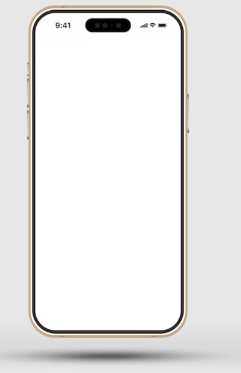
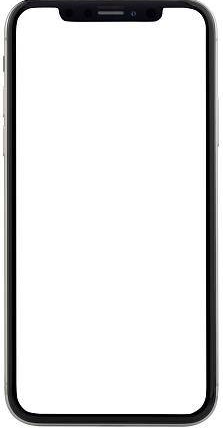
feat: cabeçalho e rodapé pretos + nova foto iPhone + botões contrastados
- Navbar: fundo preto #080810, links brancos, botão WA verde destacado
- Footer: fundo preto #080810, botões com borda branca, WA em destaque
- CartButton: prop dark para adaptar cores no fundo escuro
- Nova foto do iPhone atualizada
- Menu mobile também preto

diff --git a/components/CartButton.tsx b/components/CartButton.tsx
@@ -1,20 +1,31 @@
 "use client";
 import { useCart } from "@/context/CartContext";
 
-export default function CartButton({ style }: { style?: React.CSSProperties }) {
+interface Props {
+  style?: React.CSSProperties;
+  dark?: boolean;
+}
+
+export default function CartButton({ style, dark }: Props) {
   const { count, setOpen } = useCart();
+
+  const bg     = dark ? "rgba(255,255,255,.08)"  : "rgba(26,110,255,.07)";
+  const border = dark ? "rgba(255,255,255,.18)"  : "rgba(26,110,255,.18)";
+  const bgHov  = dark ? "rgba(255,255,255,.15)"  : "rgba(26,110,255,.12)";
+  const bdHov  = dark ? "rgba(255,255,255,.35)"  : "rgba(26,110,255,.35)";
+
   return (
     <button
       onClick={() => setOpen(true)}
       aria-label="Abrir carrinho"
       style={{
         position: "relative",
-        background: "rgba(26,110,255,.08)",
-        border: "1px solid rgba(26,110,255,.2)",
+        background: bg,
+        border: `1px solid ${border}`,
         borderRadius: 10,
         padding: "9px 14px",
         cursor: "pointer",
-        color: "#fff",
+        color: dark ? "#fff" : "var(--text)",
         fontSize: 18,
         display: "flex",
         alignItems: "center",
@@ -23,30 +34,23 @@ export default function CartButton({ style }: { style?: React.CSSProperties }) {
         ...style,
       }}
       onMouseEnter={e => {
-        e.currentTarget.style.background = "rgba(26,110,255,.12)";
-        e.currentTarget.style.borderColor = "rgba(26,110,255,.35)";
+        e.currentTarget.style.background = bgHov;
+        e.currentTarget.style.borderColor = bdHov;
       }}
       onMouseLeave={e => {
-        e.currentTarget.style.background = "rgba(26,110,255,.07)";
-        e.currentTarget.style.borderColor = "rgba(26,110,255,.18)";
+        e.currentTarget.style.background = bg;
+        e.currentTarget.style.borderColor = border;
       }}
     >
       🛒
       {count > 0 && (
         <span style={{
-          position: "absolute",
-          top: -6, right: -6,
-          background: "var(--blue)",
-          color: "#fff",
-          fontSize: 10,
-          fontWeight: 800,
-          width: 18, height: 18,
-          borderRadius: "50%",
-          display: "flex",
-          alignItems: "center",
-          justifyContent: "center",
-          lineHeight: 1,
-          boxShadow: "0 0 10px rgba(26,110,255,.5)",
+          position: "absolute", top: -6, right: -6,
+          background: "var(--blue)", color: "#fff",
+          fontSize: 10, fontWeight: 800,
+          width: 18, height: 18, borderRadius: "50%",
+          display: "flex", alignItems: "center", justifyContent: "center",
+          lineHeight: 1, boxShadow: "0 0 10px rgba(26,110,255,.5)",
         }}>
           {count > 9 ? "9+" : count}
         </span>

diff --git a/components/Footer.tsx b/components/Footer.tsx
@@ -5,35 +5,35 @@ const IG_LINK = "https://instagram.com/ramon_acessorios";
 
 export default function Footer() {
   return (
-    <footer style={{ borderTop: "1px solid rgba(0,0,0,.07)", padding: "40px 24px", position: "relative", zIndex: 1, background: "var(--bg2)" }}>
+    <footer style={{ background: "#080810", borderTop: "1px solid rgba(255,255,255,.07)", padding: "48px 24px 36px", position: "relative", zIndex: 1 }}>
       <div className="footer-flex">
         <div>
-          <img src="/logo.png" alt="Ramon Acessórios" style={{ height: 48, width: "auto", objectFit: "contain", marginBottom: 10 }} />
-          <p style={{ fontSize: 12, color: "var(--t3)", maxWidth: 280, lineHeight: 1.6 }}>
+          <img src="/logo.png" alt="Ramon Acessórios" style={{ height: 48, width: "auto", objectFit: "contain", marginBottom: 12 }} />
+          <p style={{ fontSize: 12, color: "rgba(255,255,255,.4)", maxWidth: 280, lineHeight: 1.7 }}>
             Tecnologia, acessórios e bikes elétricas para o seu dia a dia.
           </p>
         </div>
-        <div style={{ display: "flex", gap: 28, flexWrap: "wrap", alignItems: "center" }}>
+
+        <div style={{ display: "flex", gap: 12, flexWrap: "wrap", alignItems: "center" }}>
           <a href={WA_LINK} target="_blank" rel="noopener noreferrer"
-            style={{ fontSize: 13, color: "var(--t2)", textDecoration: "none", fontWeight: 600, transition: "color .15s" }}
-            onMouseEnter={e => (e.currentTarget.style.color = "#25D366")}
-            onMouseLeave={e => (e.currentTarget.style.color = "var(--t2)")}>
+            className="btn-wa" style={{ fontSize: 13, padding: "11px 20px" }}>
             💬 WhatsApp
           </a>
           <a href={IG_LINK} target="_blank" rel="noopener noreferrer"
-            style={{ fontSize: 13, color: "var(--t2)", textDecoration: "none", fontWeight: 600, transition: "color .15s" }}
-            onMouseEnter={e => (e.currentTarget.style.color = "var(--blue-lt)")}
-            onMouseLeave={e => (e.currentTarget.style.color = "var(--t2)")}>
+            style={{ fontSize: 13, color: "rgba(255,255,255,.55)", textDecoration: "none", fontWeight: 600, padding: "11px 18px", border: "1px solid rgba(255,255,255,.15)", borderRadius: 10, transition: "all .2s", display: "inline-flex", alignItems: "center", gap: 6 }}
+            onMouseEnter={e => { e.currentTarget.style.color = "#fff"; e.currentTarget.style.borderColor = "rgba(255,255,255,.4)"; }}
+            onMouseLeave={e => { e.currentTarget.style.color = "rgba(255,255,255,.55)"; e.currentTarget.style.borderColor = "rgba(255,255,255,.15)"; }}>
             📸 Instagram
           </a>
-          <a href="/checkout"
-            style={{ fontSize: 13, color: "var(--t2)", textDecoration: "none", fontWeight: 600, transition: "color .15s" }}
-            onMouseEnter={e => (e.currentTarget.style.color = "var(--blue-lt)")}
-            onMouseLeave={e => (e.currentTarget.style.color = "var(--t2)")}>
-            🛒 Checkout
+          <a href="/produtos"
+            style={{ fontSize: 13, color: "rgba(255,255,255,.55)", textDecoration: "none", fontWeight: 600, padding: "11px 18px", border: "1px solid rgba(255,255,255,.15)", borderRadius: 10, transition: "all .2s", display: "inline-flex", alignItems: "center", gap: 6 }}
+            onMouseEnter={e => { e.currentTarget.style.color = "#fff"; e.currentTarget.style.borderColor = "rgba(255,255,255,.4)"; }}
+            onMouseLeave={e => { e.currentTarget.style.color = "rgba(255,255,255,.55)"; e.currentTarget.style.borderColor = "rgba(255,255,255,.15)"; }}>
+            🛍️ Produtos
           </a>
         </div>
-        <p style={{ fontSize: 12, color: "var(--t3)" }}>
+
+        <p style={{ fontSize: 12, color: "rgba(255,255,255,.3)" }}>
           © {new Date().getFullYear()} Ramon Acessórios. Todos os direitos reservados.
         </p>
       </div>

diff --git a/components/Navbar.tsx b/components/Navbar.tsx
@@ -18,8 +18,9 @@ export default function Navbar() {
     <>
       <nav style={{
         position: "fixed", top: 0, left: 0, right: 0, zIndex: 100,
-        background: "rgba(244,246,255,.94)", backdropFilter: "blur(20px)",
-        borderBottom: "1px solid rgba(0,0,0,.07)",
+        background: "rgba(8,8,16,.97)", backdropFilter: "blur(20px)",
+        borderBottom: "1px solid rgba(255,255,255,.06)",
+        boxShadow: "0 2px 24px rgba(0,0,0,.25)",
       }} className="nav-wrap">
         <Link href="/" style={{ display: "flex", alignItems: "center", textDecoration: "none" }}>
           <img src="/logo.png" alt="Ramon Acessórios" style={{ height: 52, width: "auto", objectFit: "contain" }} />
@@ -28,21 +29,21 @@ export default function Navbar() {
         <div className="hide-mobile" style={{ display: "flex", alignItems: "center", gap: 32 }}>
           {NAV_LINKS.map(([label, href]) => (
             <Link key={label} href={href}
-              style={{ fontSize: 13, fontWeight: 500, color: "var(--t2)", textDecoration: "none", transition: "color .15s" }}
+              style={{ fontSize: 13, fontWeight: 600, color: "rgba(255,255,255,.65)", textDecoration: "none", transition: "color .15s" }}
               onMouseEnter={e => (e.currentTarget.style.color = "#fff")}
-              onMouseLeave={e => (e.currentTarget.style.color = "var(--t2)")}
+              onMouseLeave={e => (e.currentTarget.style.color = "rgba(255,255,255,.65)")}
             >{label}</Link>
           ))}
         </div>
 
         <div style={{ display: "flex", alignItems: "center", gap: 8 }}>
-          <CartButton />
+          <CartButton dark />
           <a href={WA_LINK} target="_blank" rel="noopener noreferrer"
-            className="btn-primary hide-mobile" style={{ fontSize: 13, padding: "10px 20px" }}>
+            className="btn-wa hide-mobile" style={{ fontSize: 13, padding: "10px 20px" }}>
             💬 WhatsApp
           </a>
           <button className="show-mobile" onClick={() => setMobileMenu(v => !v)}
-            style={{ background: "none", border: "1px solid rgba(255,255,255,.12)", borderRadius: 8, padding: "8px 12px", cursor: "pointer", color: "#fff", fontSize: 18, fontFamily: "inherit" }}>
+            style={{ background: "none", border: "1px solid rgba(255,255,255,.18)", borderRadius: 8, padding: "8px 12px", cursor: "pointer", color: "#fff", fontSize: 18, fontFamily: "inherit" }}>
             {mobileMenu ? "✕" : "☰"}
           </button>
         </div>
@@ -51,13 +52,13 @@ export default function Navbar() {
       {mobileMenu && (
         <div style={{
           position: "fixed", top: 68, left: 0, right: 0, zIndex: 99,
-          background: "rgba(244,246,255,.98)", backdropFilter: "blur(20px)",
-          borderBottom: "1px solid rgba(0,0,0,.07)",
+          background: "rgba(8,8,16,.99)", backdropFilter: "blur(20px)",
+          borderBottom: "1px solid rgba(255,255,255,.06)",
           padding: "24px 24px 32px", display: "flex", flexDirection: "column",
         }}>
           {NAV_LINKS.map(([label, href]) => (
             <Link key={label} href={href} onClick={() => setMobileMenu(false)}
-              style={{ fontSize: 16, fontWeight: 600, color: "var(--t2)", textDecoration: "none", padding: "16px 0", borderBottom: "1px solid rgba(0,0,0,.06)" }}>
+              style={{ fontSize: 16, fontWeight: 600, color: "rgba(255,255,255,.7)", textDecoration: "none", padding: "16px 0", borderBottom: "1px solid rgba(255,255,255,.07)" }}>
               {label}
             </Link>
           ))}

diff --git a/app/page.tsx b/app/page.tsx
@@ -167,15 +167,15 @@ export default function Page() {
       </div>
 
       {/* ── NAV ─────────────────────────────────────────── */}
-      <nav style={{ position: "fixed", top: 0, left: 0, right: 0, zIndex: 100, background: "rgba(244,246,255,.94)", backdropFilter: "blur(20px)", borderBottom: "1px solid rgba(0,0,0,.07)" }} className="nav-wrap">
+      <nav style={{ position: "fixed", top: 0, left: 0, right: 0, zIndex: 100, background: "rgba(8,8,16,.97)", backdropFilter: "blur(20px)", borderBottom: "1px solid rgba(255,255,255,.06)", boxShadow: "0 2px 24px rgba(0,0,0,.25)" }} className="nav-wrap">
         <div style={{ display: "flex", alignItems: "center", gap: 12 }}>
           <img src="/logo.png" alt="Ramon Acessórios" style={{ height: 52, width: "auto", objectFit: "contain" }} />
         </div>
         <div className="hide-mobile" style={{ display: "flex", alignItems: "center", gap: 32 }}>
           {[["Produtos","#produtos"],["Categorias","#categorias"],["Diferenciais","#diferenciais"],["Sobre","#sobre"]].map(([l, h]) => (
-            <a key={l} href={h} style={{ fontSize: 13, fontWeight: 500, color: "var(--t2)", textDecoration: "none", transition: "color .15s" }}
+            <a key={l} href={h} style={{ fontSize: 13, fontWeight: 600, color: "rgba(255,255,255,.65)", textDecoration: "none", transition: "color .15s" }}
               onMouseEnter={e => (e.currentTarget.style.color = "#fff")}
-              onMouseLeave={e => (e.currentTarget.style.color = "var(--t2)")}>{l}</a>
+              onMouseLeave={e => (e.currentTarget.style.color = "rgba(255,255,255,.65)")}>{l}</a>
           ))}
         </div>
         <CartButton style={{ marginRight: 4 }} />
@@ -188,10 +188,10 @@ export default function Page() {
 
       {/* Mobile menu */}
       {mobileMenu && (
-        <div style={{ position: "fixed", top: 68, left: 0, right: 0, zIndex: 99, background: "rgba(244,246,255,.98)", backdropFilter: "blur(20px)", borderBottom: "1px solid rgba(0,0,0,.07)", padding: "24px 24px 32px", display: "flex", flexDirection: "column", gap: 0 }}>
+        <div style={{ position: "fixed", top: 68, left: 0, right: 0, zIndex: 99, background: "rgba(8,8,16,.99)", backdropFilter: "blur(20px)", borderBottom: "1px solid rgba(255,255,255,.06)", padding: "24px 24px 32px", display: "flex", flexDirection: "column", gap: 0 }}>
           {[["Produtos","#produtos"],["Categorias","#categorias"],["Diferenciais","#diferenciais"],["Sobre","#sobre"]].map(([l, h]) => (
             <a key={l} href={h} onClick={() => setMobileMenu(false)}
-              style={{ fontSize: 16, fontWeight: 600, color: "var(--t2)", textDecoration: "none", padding: "16px 0", borderBottom: "1px solid rgba(255,255,255,.05)" }}>{l}</a>
+              style={{ fontSize: 16, fontWeight: 600, color: "rgba(255,255,255,.7)", textDecoration: "none", padding: "16px 0", borderBottom: "1px solid rgba(255,255,255,.07)" }}>{l}</a>
           ))}
           <a href={WA_LINK} target="_blank" rel="noopener noreferrer" className="btn-wa" onClick={() => setMobileMenu(false)} style={{ marginTop: 20, justifyContent: "center" }}>
             💬 Chamar no WhatsApp